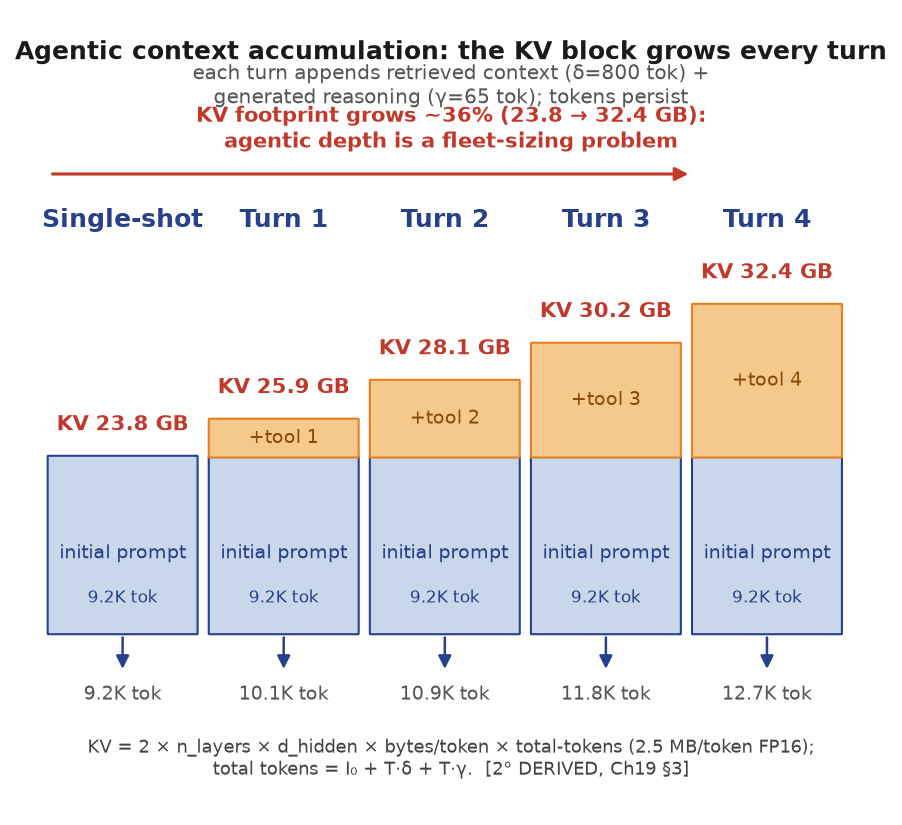
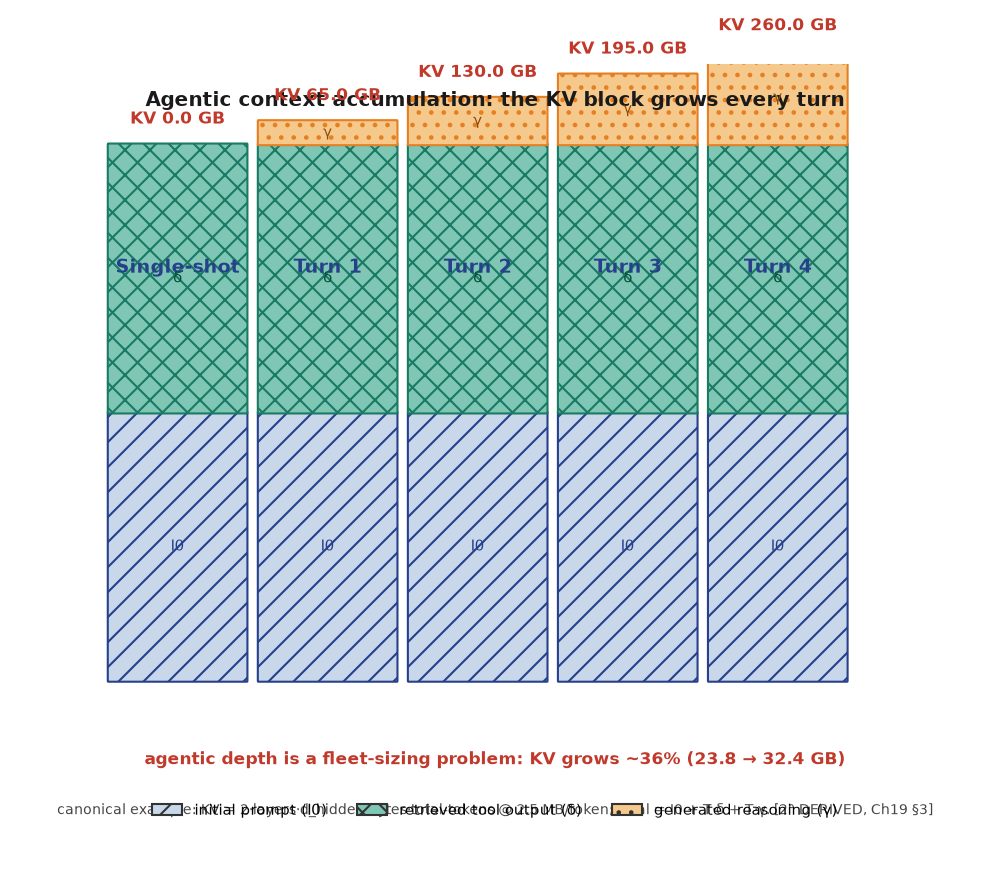
Fix Fig 19.3: component decomposition (prompt/retrieved/generated) with legend, conclusion moved below bars, labeled canonical example

diff --git a/render/fig_ch19_accum.py b/render/fig_ch19_accum.py
@@ -1,49 +1,71 @@
 import matplotlib
 matplotlib.use('Agg')
 import matplotlib.pyplot as plt
-from matplotlib.patches import FancyBboxPatch
+from matplotlib.patches import FancyBboxPatch, Patch
 
 # ---- fig-19-1903: Agentic Context Accumulation sequence ----
 # Canonical (Ch 19): I0=9200, delta=800 retrieved, gamma=65 generated per turn.
-# KV @ 2.5 MB/token: single-shot 23.8 GB; with turns 25.9, 28.1, 30.2, 32.4 GB (cumulative).
-# Compact narrow layout (5 columns, wrapped long text) so it places at column width.
-fig, ax = plt.subplots(figsize=(6.0, 5.6))
-ax.set_xlim(0, 13.8); ax.set_ylim(0, 9); ax.axis('off')
+# KV @ 2.5 MB/token (canonical architecture-dependent example): 23.8..32.4 GB.
+# Each column decomposes the accumulated KV into: initial prompt (blue) +
+# retrieved tool output (teal) + generated reasoning (orange) — with a legend
+# so the components are distinguishable (not just colour).
+fig, ax = plt.subplots(figsize=(6.6, 5.8))
+ax.set_xlim(0, 14.2); ax.set_ylim(0, 9.4); ax.axis('off')
 
-ax.text(6.9, 8.5, 'Agentic context accumulation: the KV block grows every turn', fontsize=9.5, fontweight='bold', ha='center', color='#1a1a1a')
-ax.text(6.9, 8.0, 'each turn appends retrieved context (δ=800 tok) +\ngenerated reasoning (γ=65 tok); tokens persist', fontsize=7.5, ha='center', color='#555')
+ax.text(7.1, 8.9, 'Agentic context accumulation: the KV block grows every turn',
+        fontsize=9.5, fontweight='bold', ha='center', color='#1a1a1a')
 
-# columns per turn: turn 0 (baseline), 1, 2, 3, 4 -> 5 columns
+# per-turn token decomposition (canonical example)
+I0, d, g = 9200, 800, 65
 cols = [
-    ('Single-shot',   9200, 23.8, '(no tool)'),
-    ('Turn 1',        9200+865, 25.9, '+tool 1'),
-    ('Turn 2',        9200+2*865, 28.1, '+tool 2'),
-    ('Turn 3',        9200+3*865, 30.2, '+tool 3'),
-    ('Turn 4',        9200+4*865, 32.4, '+tool 4'),
+    ('Single-shot', I0, 0, 0, 23.8),
+    ('Turn 1',      I0, d, g,   25.9),
+    ('Turn 2',      I0, 2*d, 2*g, 28.1),
+    ('Turn 3',      I0, 3*d, 3*g, 30.2),
+    ('Turn 4',      I0, 4*d, 4*g, 32.4),
 ]
 xs = [0.4, 3.0, 5.6, 8.2, 10.8]
 cwd = 2.4
+# scale: each of the components gets height proportional to cumulative tokens
+# (canonical example uses 2.5 MB/token -> total KV = (tokens)*2.5/1000 GB).
+def h_of(tok): return tok * 0.00035   # arbitrary px scale so bars stay in bounds
+max_tok = I0 + 4*d + 4*g
+ax.set_ylim(0, 9.4)
 
-# cumulative KV footprint scaled to show growth (23.8->32.4 as bar heights on a 34 GB axis)
-for (label, toks, kv, note), x in zip(cols, xs):
-    ax.text(x+cwd/2, 6.6, label, fontsize=9.5, fontweight='bold', ha='center', color='#27408b')
-    base_h = 2.0
-    add_h = (kv - 23.8) * 0.20
-    ax.add_patch(FancyBboxPatch((x, 2.0), cwd, base_h, boxstyle='round,pad=0.01', fc='#c8d8ea', ec='#27408b', lw=1))
-    ax.annotate('', xy=(x+cwd/2, 1.55), xytext=(x+cwd/2, 2.0), arrowprops=dict(arrowstyle='-|>', lw=1.2, color='#27408b'))
-    ax.text(x+cwd/2, 2.85, 'initial prompt', fontsize=7, ha='center', color='#27408b')
-    ax.text(x+cwd/2, 2.35, '9.2K tok', fontsize=6.5, ha='center', color='#27408b')
-    if add_h > 0:
-        ax.add_patch(FancyBboxPatch((x, 2.0+base_h), cwd, add_h, boxstyle='round,pad=0.01', fc='#f5c98b', ec='#e67e22', lw=1))
-        ax.text(x+cwd/2, 2.0+base_h+add_h/2, note, fontsize=7, ha='center', va='center', color='#8a4b08')
-    ax.text(x+cwd/2, 2.0+base_h+add_h+0.3, f'KV {kv:.1f} GB', fontsize=8, ha='center', fontweight='bold', color='#c0392b')
-    ax.text(x+cwd/2, 1.25, f'{toks/1000:.1f}K tok', fontsize=7, ha='center', color='#555')
+for label, x in zip(cols, xs):
+    ax.text(x+cwd/2, 6.9, label[0], fontsize=9, fontweight='bold', ha='center', color='#27408b')
+    y = 2.0
+    # initial prompt
+    h0 = h_of(I0)
+    ax.add_patch(FancyBboxPatch((x, y), cwd, h0, boxstyle='round,pad=0.01', fc='#c8d8ea', ec='#27408b', lw=1, hatch='//'))
+    ax.text(x+cwd/2, y+h0/2, f'I0', fontsize=7, ha='center', va='center', color='#27408b')
+    y += h0
+    if label[1]>0:
+        h1 = h_of(label[1])
+        ax.add_patch(FancyBboxPatch((x, y), cwd, h1, boxstyle='round,pad=0.01', fc='#7fc6b5', ec='#1a7a63', lw=1, hatch='xx'))
+        ax.text(x+cwd/2, y+h1/2, f'δ', fontsize=7, ha='center', va='center', color='#0a4a3a')
+        y += h1
+    if label[2]>0:
+        h2 = h_of(label[2])
+        ax.add_patch(FancyBboxPatch((x, y), cwd, h2, boxstyle='round,pad=0.01', fc='#f5c98b', ec='#e67e22', lw=1, hatch='..'))
+        ax.text(x+cwd/2, y+h2/2, f'γ', fontsize=7, ha='center', va='center', color='#8a4b08')
+        y += h2
+    ax.text(x+cwd/2, y+0.25, f'KV {label[3]:.1f} GB', fontsize=8, ha='center', fontweight='bold', color='#c0392b')
 
-ax.annotate('', xy=(10.8, 7.2), xytext=(0.4, 7.2), arrowprops=dict(arrowstyle='-|>', lw=1.5, color='#c0392b'))
-ax.text(6.9, 7.5, 'KV footprint grows ~36% (23.8 → 32.4 GB):\nagentic depth is a fleet-sizing problem', fontsize=8, ha='center', color='#c0392b', fontweight='bold')
+# legend (colour + pattern so grayscale-safe)
+legend_comps = [
+    ('initial prompt (I0)', '#c8d8ea', '//'),
+    ('retrieved tool output (δ)', '#7fc6b5', 'xx'),
+    ('generated reasoning (γ)', '#f5c98b', '..'),
+]
+ax.legend(handles=[Patch(fc=c, ec='#333', hatch=h, label=l) for l,c,h in legend_comps],
+          loc='lower center', bbox_to_anchor=(0.5, 0.02), fontsize=7.2, frameon=False, ncol=3)
 
-ax.text(6.9, 0.4, 'KV = 2 × n_layers × d_hidden × bytes/token × total-tokens (2.5 MB/token FP16);\ntotal tokens = I₀ + T·δ + T·γ.  [2° DERIVED, Ch19 §3]',
-        fontsize=6.8, ha='center', color='#444')
+# short conclusion below (not in the title region)
+ax.text(7.1, 1.0, 'agentic depth is a fleet-sizing problem: KV grows ~36% (23.8 → 32.4 GB)',
+        fontsize=8, ha='center', color='#c0392b', fontweight='bold')
+ax.text(7.1, 0.4, 'canonical example: KV = 2·layers·d_hidden·bytes·total-tokens @ 2.5 MB/token; total = I0 + T·δ + T·γ. [2° DERIVED, Ch19 §3]',
+        fontsize=6.5, ha='center', color='#444')
 
 plt.tight_layout()
 plt.savefig('design/manuscript/chapter-19/figures/fig-19-1903.png', dpi=150)
